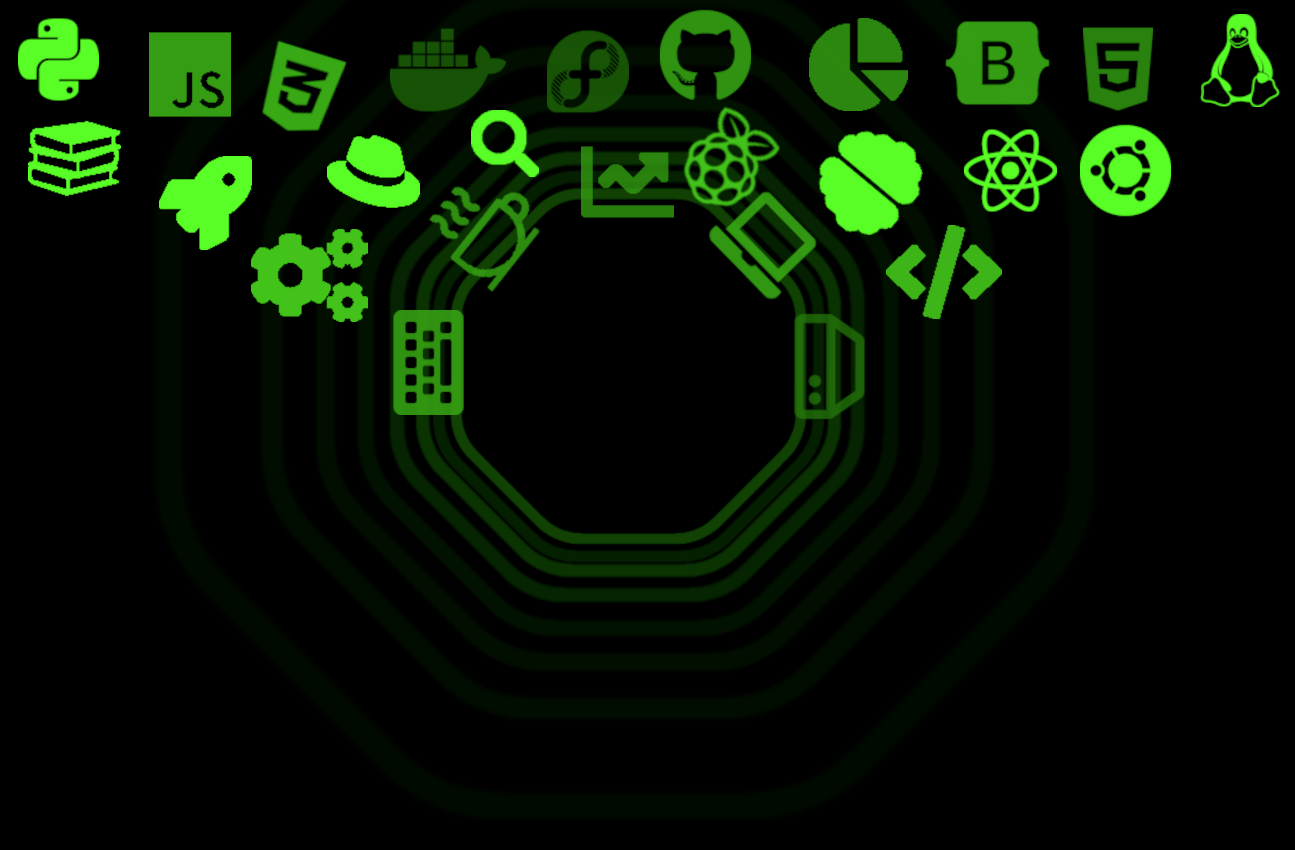
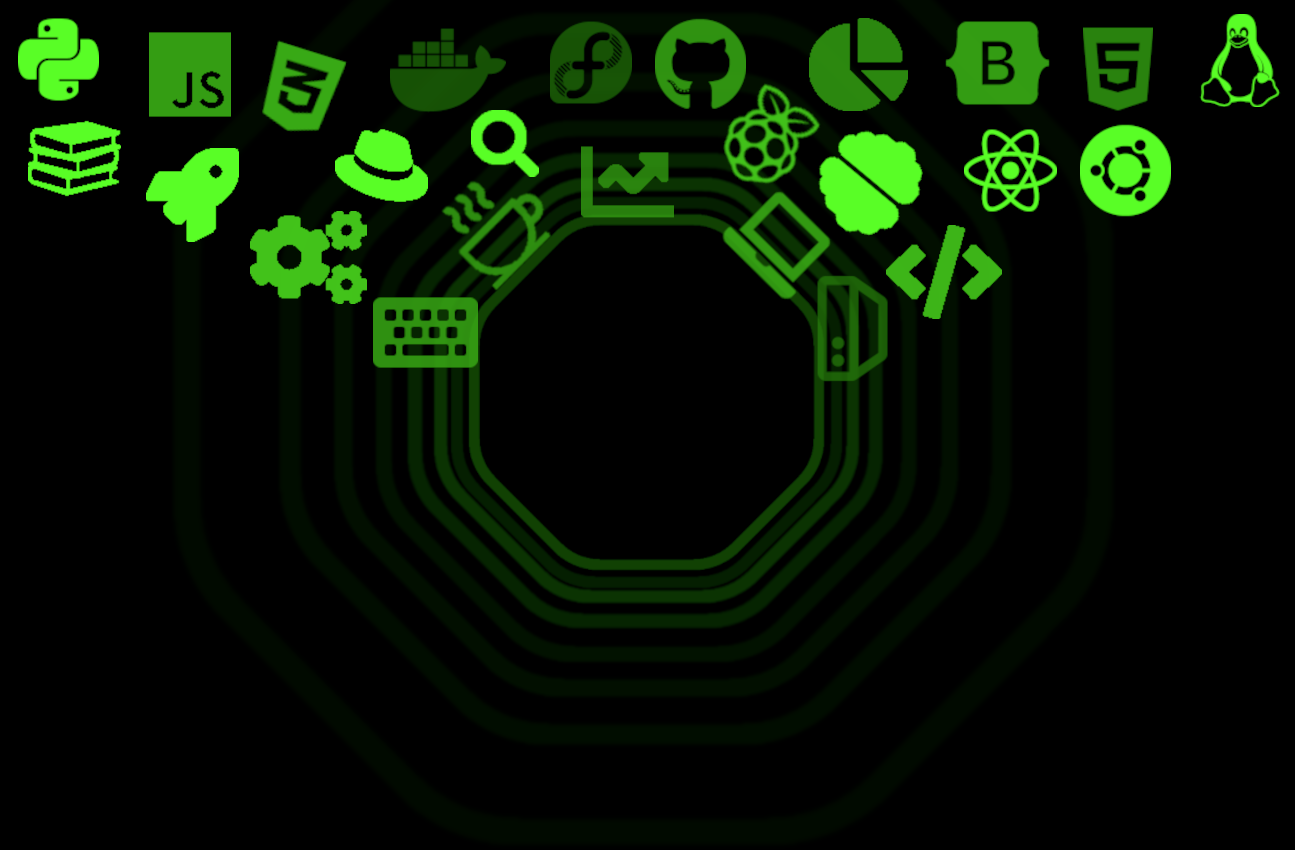
added padding to expectations & dotted in front of the image

Changed region(s): [[0.0927, 0.0, 0.7104, 0.7341]]

diff --git a/resume/static/style/hacker/main.css b/resume/static/style/hacker/main.css
@@ -17,7 +17,6 @@ body{
 .card-body{
 	 min-height: 1500px; 
 	background-image: url('/static/style/hacker/background.png');
-	background-position-x: 13px;
 	background-repeat: no-repeat;
 	background-size: 100%;
 }
@@ -71,13 +70,16 @@ body{
 	left: -10%;
 	z-index: 1;
 	background: #2b5329;
-	min-height: 1078px; 
+	min-height: 1068px; 
 	width: 120%;
 	/* border-radius: 30% 30% 0 0; */
 }
 
 .center_field__name{
 	margin-top: 10%;
+}
+.center_field__expectations{
+	padding: 1rem;
 }
 
 
@@ -88,6 +90,11 @@ body{
 
 .font_black{
 	color: black;
+}
+
+.font_title{
+	font-style: italic;
+	font-size: 1.4rem;
 }
 
 .hr_style{
@@ -144,23 +151,25 @@ body{
 	position: absolute;
 	border-radius: 2%;
 }
-.octo-corner-vert{
-	position: absolute;
-	height: 110px;
-	width: 280px;
-	top: -14.2%;
-	left: 18%;
-	border: solid 8px;
-	z-index: 1;
-}
 .octo-corner-hor{
 	position: absolute;
-	height: 280px;
+	height: 110px;
+	width: 281px;
+	top: -14.2%;
+	left: 78.3px;
+	border-left: dotted 8px;
+	border-right: dotted 8px;
+	z-index: 2;
+}
+.octo-corner-vert{
+	position: absolute;
+	height: 281px;
 	width: 110px;
-	top: -22.1%;
+	top: -238.1px;
 	left: 38%;
-	border: solid 8px;
-	z-index: 1;
+	border-top: dotted 8px;
+	border-bottom: dotted 8px;
+	z-index: 2;
 }
 /* step decoration */
 .step_wrapper{

diff --git a/resume/templates/hacker_template/template.html b/resume/templates/hacker_template/template.html
@@ -129,7 +129,7 @@
 													</div>
 												  </div>
 												</div>
-														<div class="octo-corner octo-corner-vert">a</div>
+														<div class="octo-corner octo-corner-vert"></div>
 														<div class="octo-corner octo-corner-hor"></div>
 														<div class="octo-corner octo-corner-sl-front"></div>
 														<div class="octo-corner octo-corner-sl-back"></div>
@@ -141,7 +141,7 @@
 
 								 <div class="center_field__name">
 									 <h1>{{basic_info.name}}</h2>
-									 <h2 class="font_black">Backend Developer</h2>
+									 <h2 class="font_black font_title">Backend Developer</h2>
 								 </div>
 								 <div class="center_field__expectations">
 								 	{{ sections.0.content.text }}
